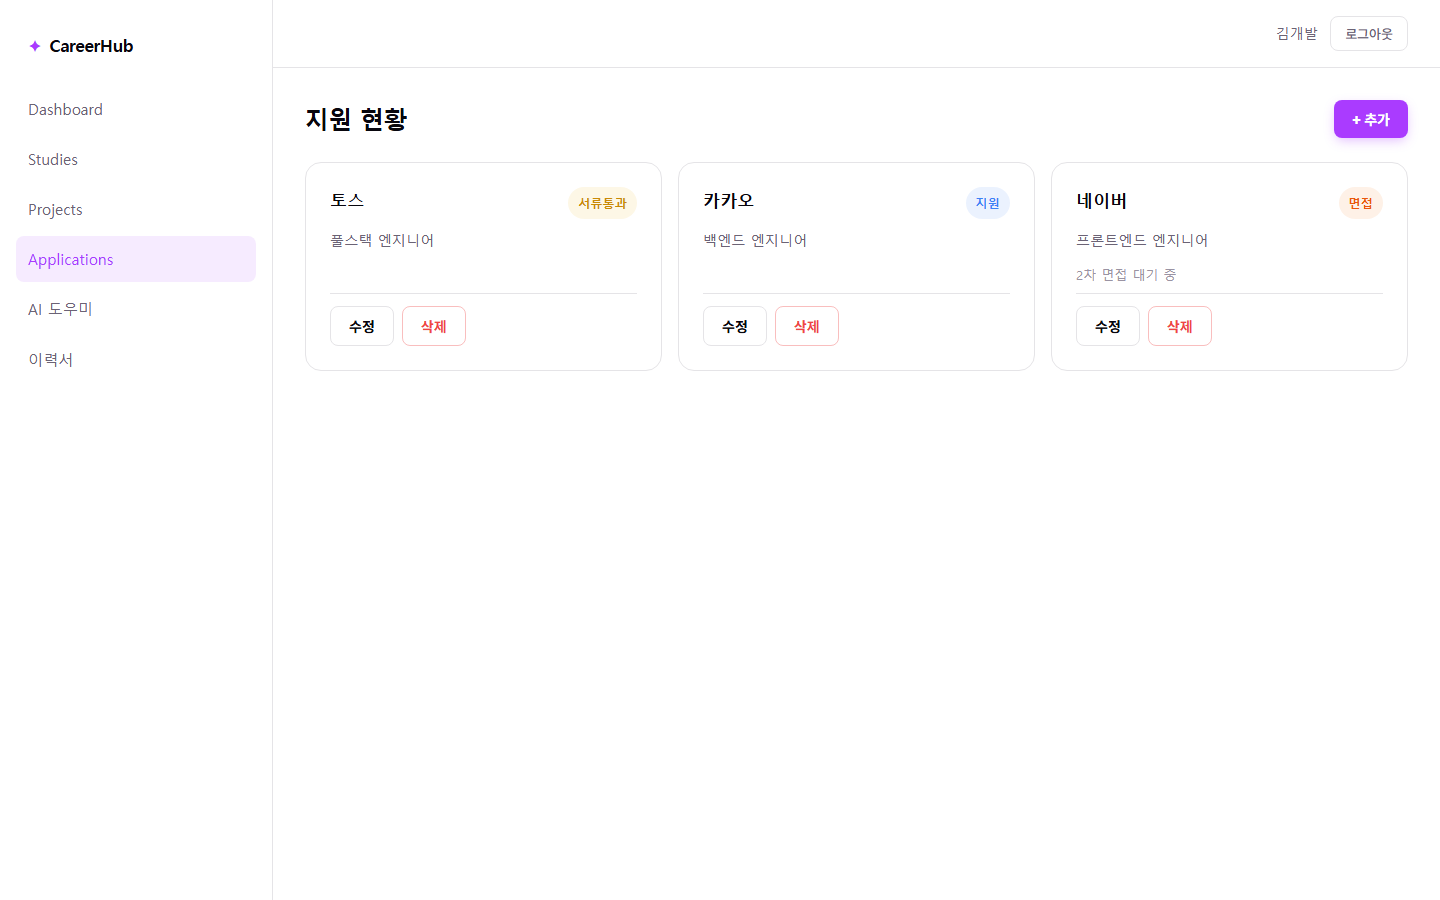
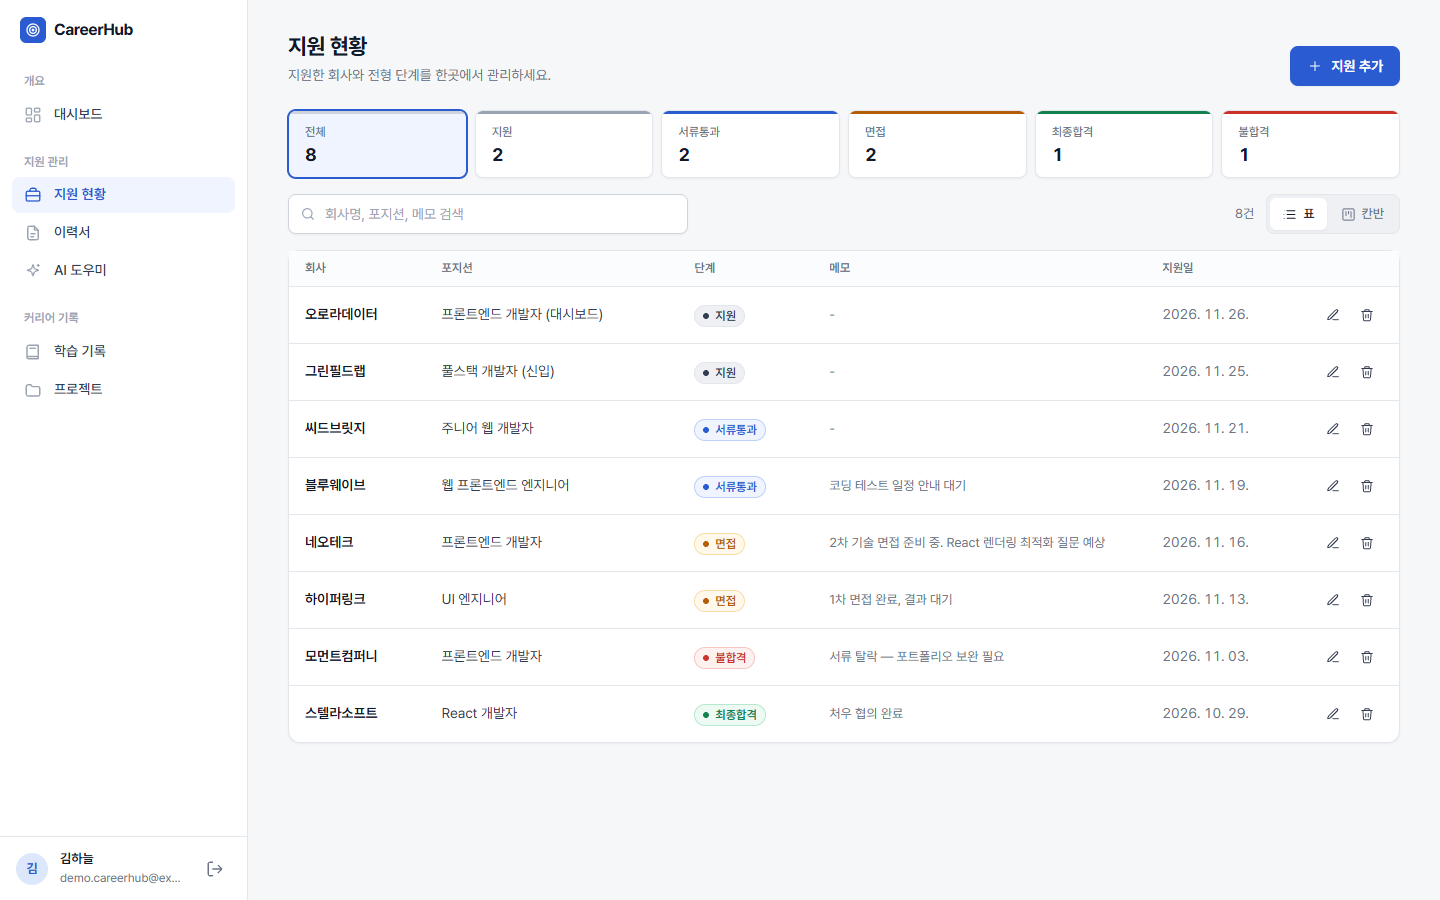
docs: 리디자인 화면 스크린샷 교체 및 README 디자인 시스템 반영 (#61)

diff --git a/frontend/src/components/layouts/AuthLayout.module.css b/frontend/src/components/layouts/AuthLayout.module.css
@@ -6,6 +6,11 @@
 
 /* ── 좌측 브랜드 패널: 단색 네이비, 장식 최소 ── */
 .brandPanel {
+  /* 회원가입처럼 긴 폼을 스크롤해도 브랜드 패널은 화면에 고정 */
+  position: sticky;
+  top: 0;
+  align-self: start;
+  height: 100svh;
   display: flex;
   align-items: center;
   justify-content: center;

diff --git a/README.md b/README.md
@@ -67,6 +67,7 @@
 - 학습 기록 CRUD (제목, 내용, 카테고리, 학습 시간, 학습 날짜)
 - 프로젝트 CRUD (제목, 설명, 기술 스택, GitHub/배포 링크)
 - 지원 현황 CRUD (회사명, 포지션, 진행 상태 5단계, 메모)
+- 지원 현황 표 / 칸반 보기 전환, 회사명·포지션·메모 검색, 전형 단계 필터 (단계별 건수 표시)
 
 ### 이력서 관리
 
@@ -82,12 +83,15 @@
 
 ### 대시보드
 
-- 학습 기록 / 프로젝트 / 지원 현황 통계 카드
-- 지원 상태별 분포 차트 (Recharts)
+- 전체 지원 / 진행 중 / 면접 단계 / 최종 합격 지표 카드
+- 전형 단계별 분포 (차트 라이브러리 없이 CSS 막대로 구현)
+- 학습 기록 · 프로젝트 건수, 최근 지원 5건
 
 ---
 
 ## 서비스 화면
+
+> 로컬 개발 환경에서 예시 계정·예시 데이터로 촬영한 화면입니다.
 
 ### 랜딩 / 인증
 
@@ -101,15 +105,28 @@
 | --- | --- | --- |
 | ![대시보드](./docs/images/dashboard.png) | ![학습 기록](./docs/images/studies.png) | ![프로젝트](./docs/images/projects.png) |
 
-| 지원 현황 | AI 도우미 | 이력서 관리 |
+| 지원 현황 (표 보기) | 지원 현황 (칸반 보기) | AI 도우미 |
 | --- | --- | --- |
-| ![지원 현황](./docs/images/applications.png) | ![AI 도우미](./docs/images/ai.png) | ![이력서 관리](./docs/images/resume.png) |
+| ![지원 현황 표 보기](./docs/images/applications.png) | ![지원 현황 칸반 보기](./docs/images/applications-board.png) | ![AI 도우미](./docs/images/ai.png) |
 
-### 성공 / 실패 피드백 (Toast), 모바일
-
-| 성공 Toast | 실패 Toast | 모바일 (375px) |
+| 이력서 관리 | 성공 Toast | 실패 Toast |
 | --- | --- | --- |
-| ![성공 토스트](./docs/images/toast-success.png) | ![실패 토스트](./docs/images/toast-error.png) | ![모바일](./docs/images/mobile.png) |
+| ![이력서 관리](./docs/images/resume.png) | ![성공 토스트](./docs/images/toast-success.png) | ![실패 토스트](./docs/images/toast-error.png) |
+
+### 모바일 (390px)
+
+| 대시보드 | 메뉴 (서랍) |
+| --- | --- |
+| <img src="./docs/images/mobile.png" alt="모바일 대시보드" width="280" /> | <img src="./docs/images/mobile-menu.png" alt="모바일 메뉴" width="280" /> |
+
+### 디자인 시스템
+
+- **디자인 토큰:** 색·간격·모서리·그림자·글자 크기를 `src/index.css` 의 CSS 변수로 정의하고, 모듈 CSS 는 변수만 참조 (라이트 모드 전용)
+- **폰트:** Pretendard Variable 을 유니코드 범위별 분할 파일(dynamic subset)로 불러와 화면에 쓰인 글자 조각만 내려받음, `font-display: swap`
+- **아이콘:** 외부 라이브러리 없이 공통 `Icon` 컴포넌트(라인 SVG)로 통일
+- **공통 컴포넌트:** Button · Input · PasswordInput · Select · Badge · Card · Table · Modal · PageHeader · EmptyState · PageState · SegmentedControl · Toast
+- **상태 화면:** 로딩 / 오류(다시 시도) / 빈 데이터(다음 행동 버튼)를 모든 목록 화면에 적용
+- **접근성:** 라벨-입력 연결, 키보드 포커스 링, 아이콘 버튼 `aria-label`, `prefers-reduced-motion` 대응, 숫자 지표 `tabular-nums`
 
 ---
 
@@ -123,8 +140,8 @@
 | 라우팅 | React Router (Data Router) |
 | 서버 상태 관리 | TanStack Query (React Query) |
 | 폼 / 검증 | React Hook Form, Zod |
-| 스타일링 | CSS Modules |
-| 차트 | Recharts |
+| 스타일링 | CSS Modules, CSS 변수 디자인 토큰 |
+| 폰트 / 아이콘 | Pretendard, 자체 SVG 아이콘 컴포넌트 |
 | 빌드 도구 | Vite |
 
 ### Backend
